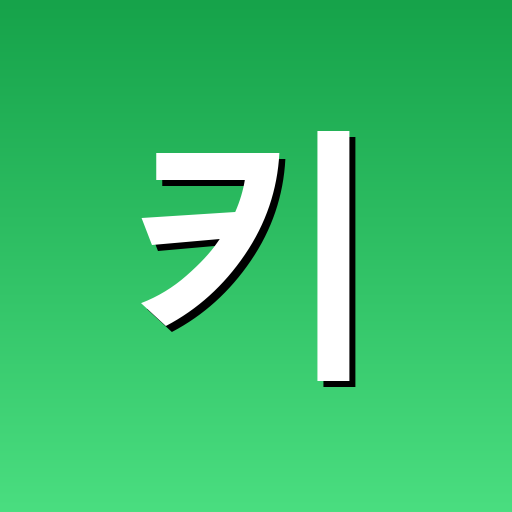
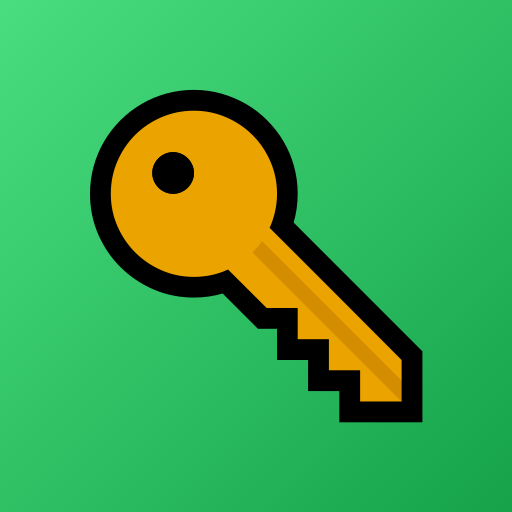
이모지 아이콘 전면 교체 + 컨설팅 앱설치 버튼 + status manifest 수리

diff --git a/consult.html b/consult.html
@@ -1922,5 +1922,15 @@ function copyShare(){
 }
 applyMe();
 </script>
+<!--PWAINSTALL-->
+<button id="pwaInstall" style="display:none;position:fixed;right:16px;bottom:18px;z-index:9998;border:none;background:#4f46e5;color:#fff;border-radius:24px;padding:12px 18px;font-size:14px;font-weight:800;box-shadow:0 6px 18px rgba(79,70,229,.45);cursor:pointer;font-family:'Malgun Gothic',sans-serif">📲 앱으로 설치</button>
+<script>
+(function(){
+  var dp=null, btn=document.getElementById('pwaInstall');
+  window.addEventListener('beforeinstallprompt',function(e){ e.preventDefault(); dp=e; if(btn) btn.style.display=''; });
+  if(btn) btn.onclick=function(){ if(!dp){ alert('이미 설치됐거나, 브라우저 메뉴(⋮)의 "앱 설치"를 이용하세요.'); return; } dp.prompt(); dp.userChoice.then(function(){ dp=null; btn.style.display='none'; }); };
+  window.addEventListener('appinstalled',function(){ if(btn) btn.style.display='none'; });
+})();
+</script>
 </body>
 </html>
